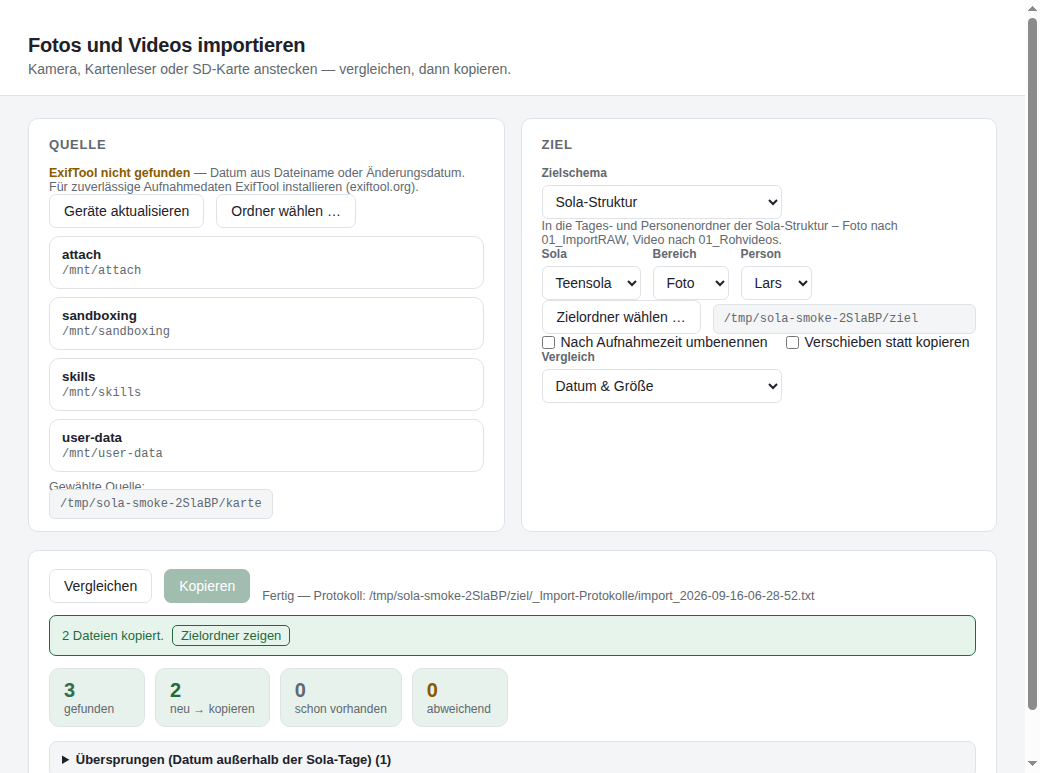
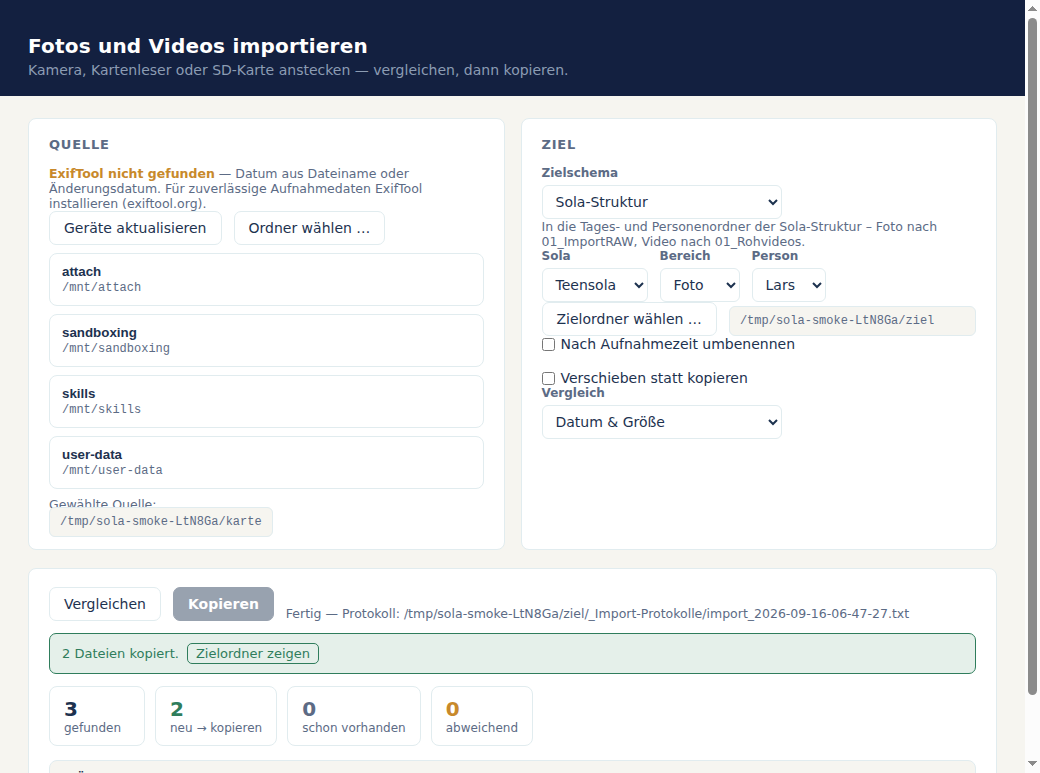
Oberfläche auf das Lars-Zumpe-Corporate-Design umgestellt
Beide Fenster tragen jetzt dieselbe Optik wie der LZ-Sortierer:
Deep-Navy-Kopf mit weißer Marke, Papier-Hintergrund, Zumpe-Navy-Text,
Eisblau-Rahmen und die Funktionsfarben Erfolg/Hinweis/Fehler. Schrift
Public Sans (lokal, mit System-Fallback).

Die CI-Farben sind als Tokens in :root abgelegt und auf die bestehenden
Rollen-Variablen abgebildet, sodass alle Komponenten sie erben; der
Dark-Mode-Block entfällt (die CI ist ein helles Thema). Fensterhintergründe
auf Papier gesetzt.

Claude-Session: https://claude.ai/code/session_012cgrnNFUHDFYyNKqoXLqbx

diff --git a/src/renderer/styles.css b/src/renderer/styles.css
@@ -1,38 +1,38 @@
-:root {
-  --bg: #f4f5f7;
-  --karte: #ffffff;
-  --rand: #dfe3e8;
-  --text: #1d2129;
-  --gedaempft: #61686f;
-  --akzent: #2f6f4f;
-  --akzent-hell: #e8f2ec;
-  --warnung: #8a5a00;
-  --warnung-hell: #fdf3e0;
-  --fehler: #a12a24;
-  --fehler-hell: #fbeceb;
-  --erfolg: #1f6b3f;
-  --erfolg-hell: #e7f4ec;
-  --radius: 10px;
-  --schrift: -apple-system, BlinkMacSystemFont, "Segoe UI", Roboto, "Helvetica Neue", Arial, sans-serif;
-  --mono: ui-monospace, SFMono-Regular, "SF Mono", Menlo, Consolas, "Liberation Mono", monospace;
+/* Lars Zumpe CI: Zumpe Navy #1D324F, Deep Navy #132040, Eisblau #E1ECEF,
+   Stahlblau #8C9CB3, Schiefer #5C6B85, Papier #F6F5F0.
+   Funktionsfarben: Erfolg #2F7D5C, Hinweis #C8892B, Fehler #B04A3F.
+   Schrift: Public Sans. Dieselbe Optik wie der LZ-Sortierer. */
+@font-face {
+  font-family: 'Public Sans';
+  src: local('Public Sans');
 }
 
-@media (prefers-color-scheme: dark) {
-  :root {
-    --bg: #1b1d21;
-    --karte: #24272c;
-    --rand: #383c43;
-    --text: #e9eaec;
-    --gedaempft: #a3a9b1;
-    --akzent: #6ab98d;
-    --akzent-hell: #23342b;
-    --warnung: #e0b060;
-    --warnung-hell: #33291a;
-    --fehler: #e98d87;
-    --fehler-hell: #33211f;
-    --erfolg: #7bc79b;
-    --erfolg-hell: #1e2f25;
-  }
+:root {
+  /* CI-Grundfarben */
+  --navy: #1d324f;
+  --deep: #132040;
+  --eis: #e1ecef;
+  --stahl: #8c9cb3;
+  --schiefer: #5c6b85;
+  --papier: #f6f5f0;
+
+  /* Rollen der Oberfläche, auf die CI abgebildet */
+  --bg: var(--papier);
+  --karte: #ffffff;
+  --rand: var(--eis);
+  --text: var(--navy);
+  --gedaempft: var(--schiefer);
+  --akzent: var(--navy);
+  --akzent-hell: var(--eis);
+  --warnung: #c8892b;
+  --warnung-hell: #fbf0de;
+  --fehler: #b04a3f;
+  --fehler-hell: #f7e7e4;
+  --erfolg: #2f7d5c;
+  --erfolg-hell: #e5f0ea;
+  --radius: 8px;
+  --schrift: 'Public Sans', -apple-system, BlinkMacSystemFont, "Segoe UI", Roboto, system-ui, sans-serif;
+  --mono: "SF Mono", ui-monospace, SFMono-Regular, Menlo, Consolas, "Liberation Mono", monospace;
 }
 
 * {
@@ -197,7 +197,7 @@ select {
   border-radius: 6px;
   background: var(--karte);
   color: var(--text);
-  color-scheme: light dark;
+  color-scheme: light;
 }
 
 input:focus-visible,
@@ -769,4 +769,56 @@ fieldset {
 
 .spalte-kat {
   width: 96px;
+}
+
+/* --- Lars Zumpe CI: Kopf und Feinschliff --------------------------------- */
+
+/* Der Fensterkopf trägt die Marke: Deep Navy mit weißer Schrift. */
+.kopf {
+  background: var(--deep);
+  border-bottom: none;
+  color: #fff;
+}
+
+.kopf h1 {
+  color: #fff;
+  font-weight: 700;
+  letter-spacing: 0.01em;
+}
+
+.kopf-titel p {
+  color: var(--stahl);
+}
+
+.version {
+  color: var(--stahl);
+}
+
+/* Knöpfe im dunklen Kopf: heller Rahmen auf Navy, füllen beim Überfahren. */
+.kopf .knopf {
+  background: transparent;
+  border-color: var(--stahl);
+  color: var(--eis);
+}
+
+.kopf .knopf:hover:not(:disabled) {
+  background: var(--eis);
+  border-color: var(--eis);
+  color: var(--navy);
+}
+
+/* Primärknopf im Navy-Ton der CI, mit etwas mehr Gewicht. */
+.knopf-primaer {
+  font-weight: 600;
+}
+
+.knopf-primaer:hover:not(:disabled) {
+  background: var(--deep);
+  filter: none;
+}
+
+/* Kennzahlen-Kacheln: Papierrahmen wie im LZ-Sortierer. */
+.kachel {
+  background: #fff;
+  border-color: var(--eis);
 }

diff --git a/src/main/main.js b/src/main/main.js
@@ -48,7 +48,7 @@ function createWindow() {
     minWidth: 600,
     minHeight: 560,
     title: 'SOLA Ordnerstruktur',
-    backgroundColor: '#f4f5f7',
+    backgroundColor: '#f6f5f0',
     // Auf macOS sitzt die Ampel im eigenen Header, unter Windows bleibt die
     // Systemleiste stehen.
     titleBarStyle: IST_MAC ? 'hiddenInset' : 'default',
@@ -300,7 +300,7 @@ function oeffneImportFenster() {
     minWidth: 760,
     minHeight: 560,
     title: 'Fotos und Videos importieren',
-    backgroundColor: '#f4f5f7',
+    backgroundColor: '#f6f5f0',
     parent: fenster || undefined,
     titleBarStyle: IST_MAC ? 'hiddenInset' : 'default',
     webPreferences: {

diff --git a/README.md b/README.md
@@ -268,6 +268,13 @@ verändert dabei keine Dateien, es wird nur zum Lesen der Metadaten aufgerufen.
 Videos aus QuickTime (`.mov`, `.mp4`) werden mit `-api QuickTimeUTC` von UTC auf die
 lokale Zeit umgerechnet, damit sie im richtigen Tagesordner landen.
 
+## Gestaltung
+
+Die App folgt dem Corporate Design von **Lars Zumpe** — dieselbe Optik wie der
+[LZ-Sortierer](https://github.com/larszu/lz-sortierer): Deep-Navy-Kopf, Papier-Hintergrund,
+Zumpe-Navy-Text und die Funktionsfarben Erfolg/Hinweis/Fehler. Die Farbtokens stehen
+oben in `src/renderer/styles.css`.
+
 ## Entwicklung
 
 ```bash
